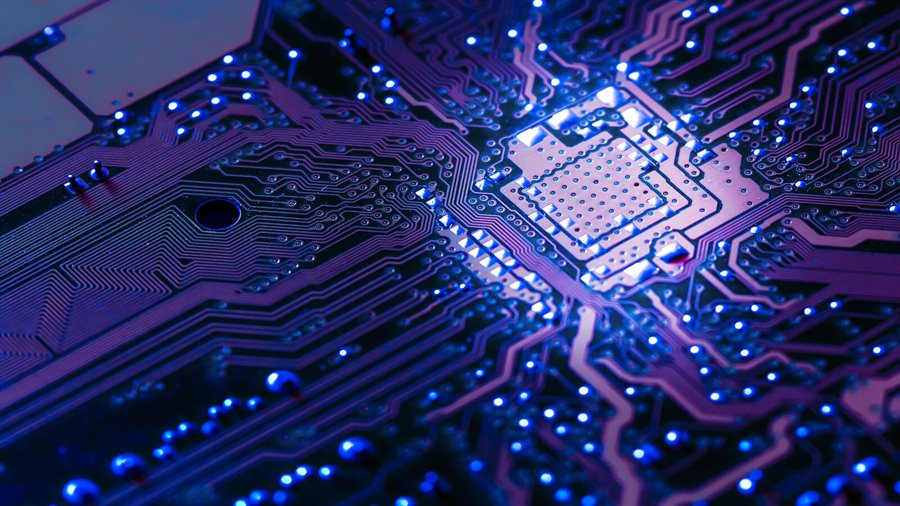
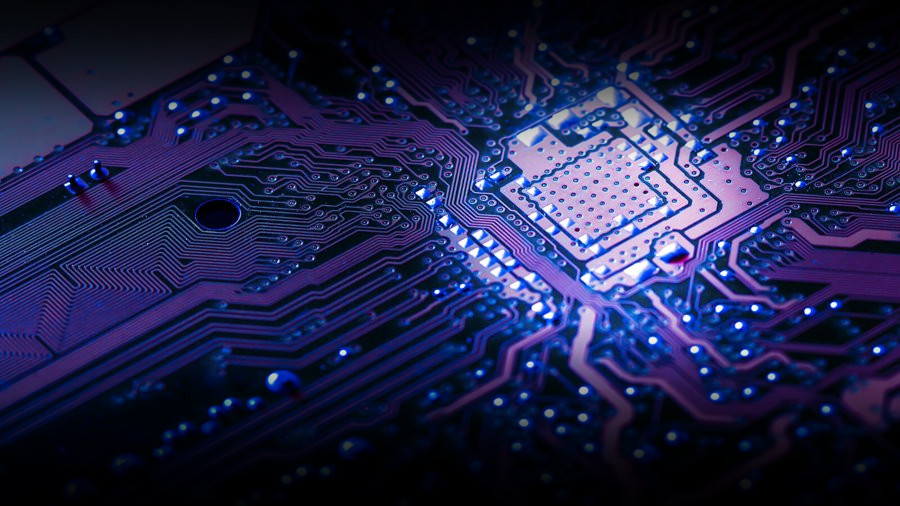
add partials for header and footer includes styled background images(fading)

diff --git a/public/stylesheets/index.css b/public/stylesheets/index.css
@@ -2,12 +2,28 @@
 	background-image: url('/imgs/comChip2.jpg');
 	background-size: cover;
     background-repeat: no-repeat;
+    padding-bottom: 175px;
+    margin-bottom: 25px;
 } 
-body{
+#webprojects{
     background-image: url('../imgs/comChip.jpg');
 	background-size: cover;
     background-repeat: no-repeat; 
+    padding-bottom: 140px;
+    margin-bottom: 75px;
 }
+body{
+    background-color: black;
+}
+
+#gameprojects{
+    background-image: url('../imgs/videoGameBG2.jpg');
+	background-size: cover;
+    background-repeat: no-repeat;  
+    padding-bottom: 150px;
+    margin-bottom: 150px;
+}
+
 .title h1{
     font-family: 'Metal Mania', cursive;
     font-size: 10em; 
@@ -70,3 +86,14 @@ body{
     font-size: 2em;
     color: black;
   }
+  #gameDiv{
+      padding: 50px 50px 50px 50px;
+      margin-top: 150px;
+  }
+  .certTitle{
+    font-family: 'Noto Sans KR', sans-serif;
+    color: black;
+    -webkit-text-stroke-width: .5px;
+ -webkit-text-stroke-color: #26e60d;
+  }
+
